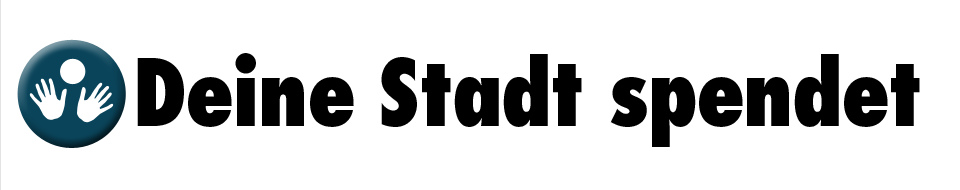
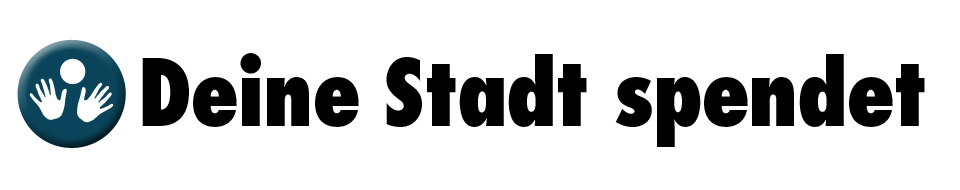
struktur 2

Changed region(s): [[0.125, 0.2632, 0.9688, 0.7632]]

diff --git a/main.js b/main.js
@@ -1,9 +1,26 @@
-function addTopMenu() {
+/**
+main.js
+
+Eine externe und zentrale Javascriptdatei, wo alle anderen Seiten
+drauf zugreifen können sobald
+"<script src="main.js"></script>" 
+im Head hinzugefügt wurde.
+
+**/
+
+
+
+function addHeadMenu() {
+	
+	//<div align="center" id="mitte"></div>
     var header = new Image();
+	var container = document.createElement("div");
+	//container.align = "center";
+	
+	
 	header.src = "pics/header.png";
-		
-	document.body.appendChild(header);
 	
-	
+	container.appendChild(header);
+	document.body.appendChild(container);
 	
 }

diff --git a/index.html b/index.html
@@ -1,6 +1,7 @@
 <html>
 <head>
 <title>Deine Stadt spendet</title>
+<link rel="stylesheet" type="text/css" href="style.css">
 <script src="main.js"></script>
 
 </head>
@@ -11,7 +12,7 @@
 
 <script>
 
-addTopMenu();
+addHeadMenu();
 
 </script>
 
